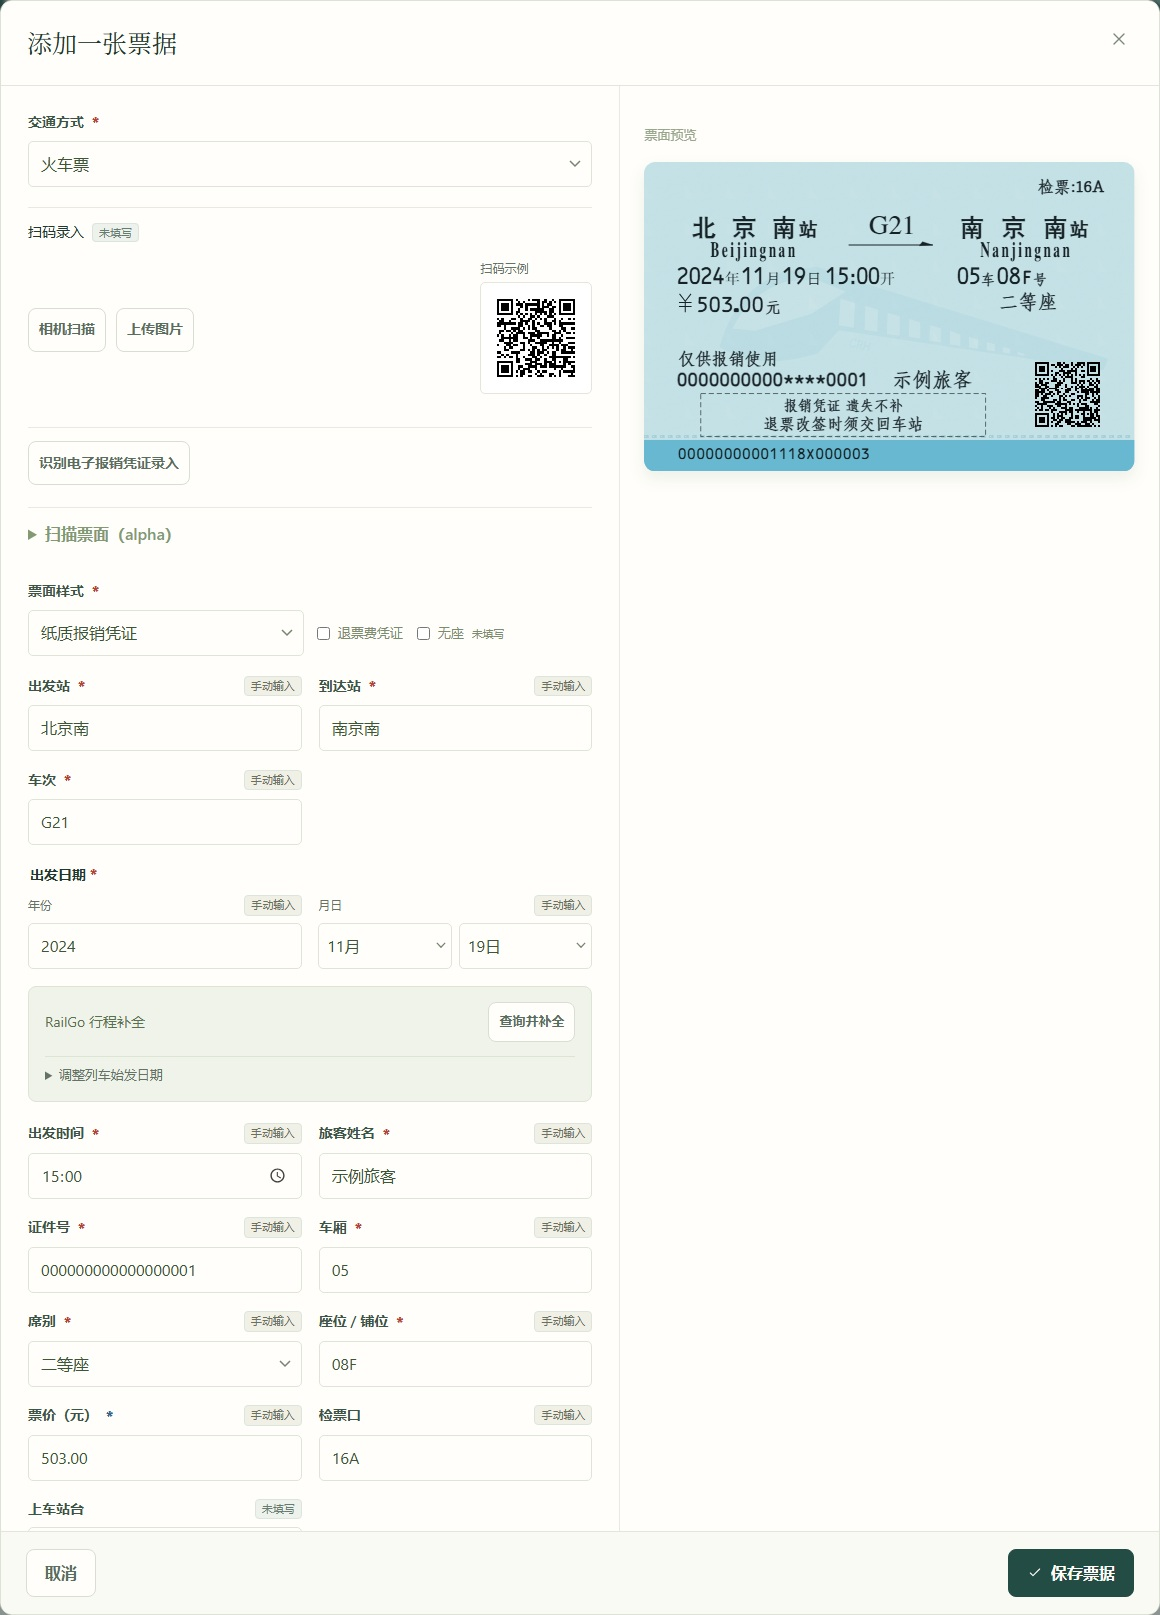
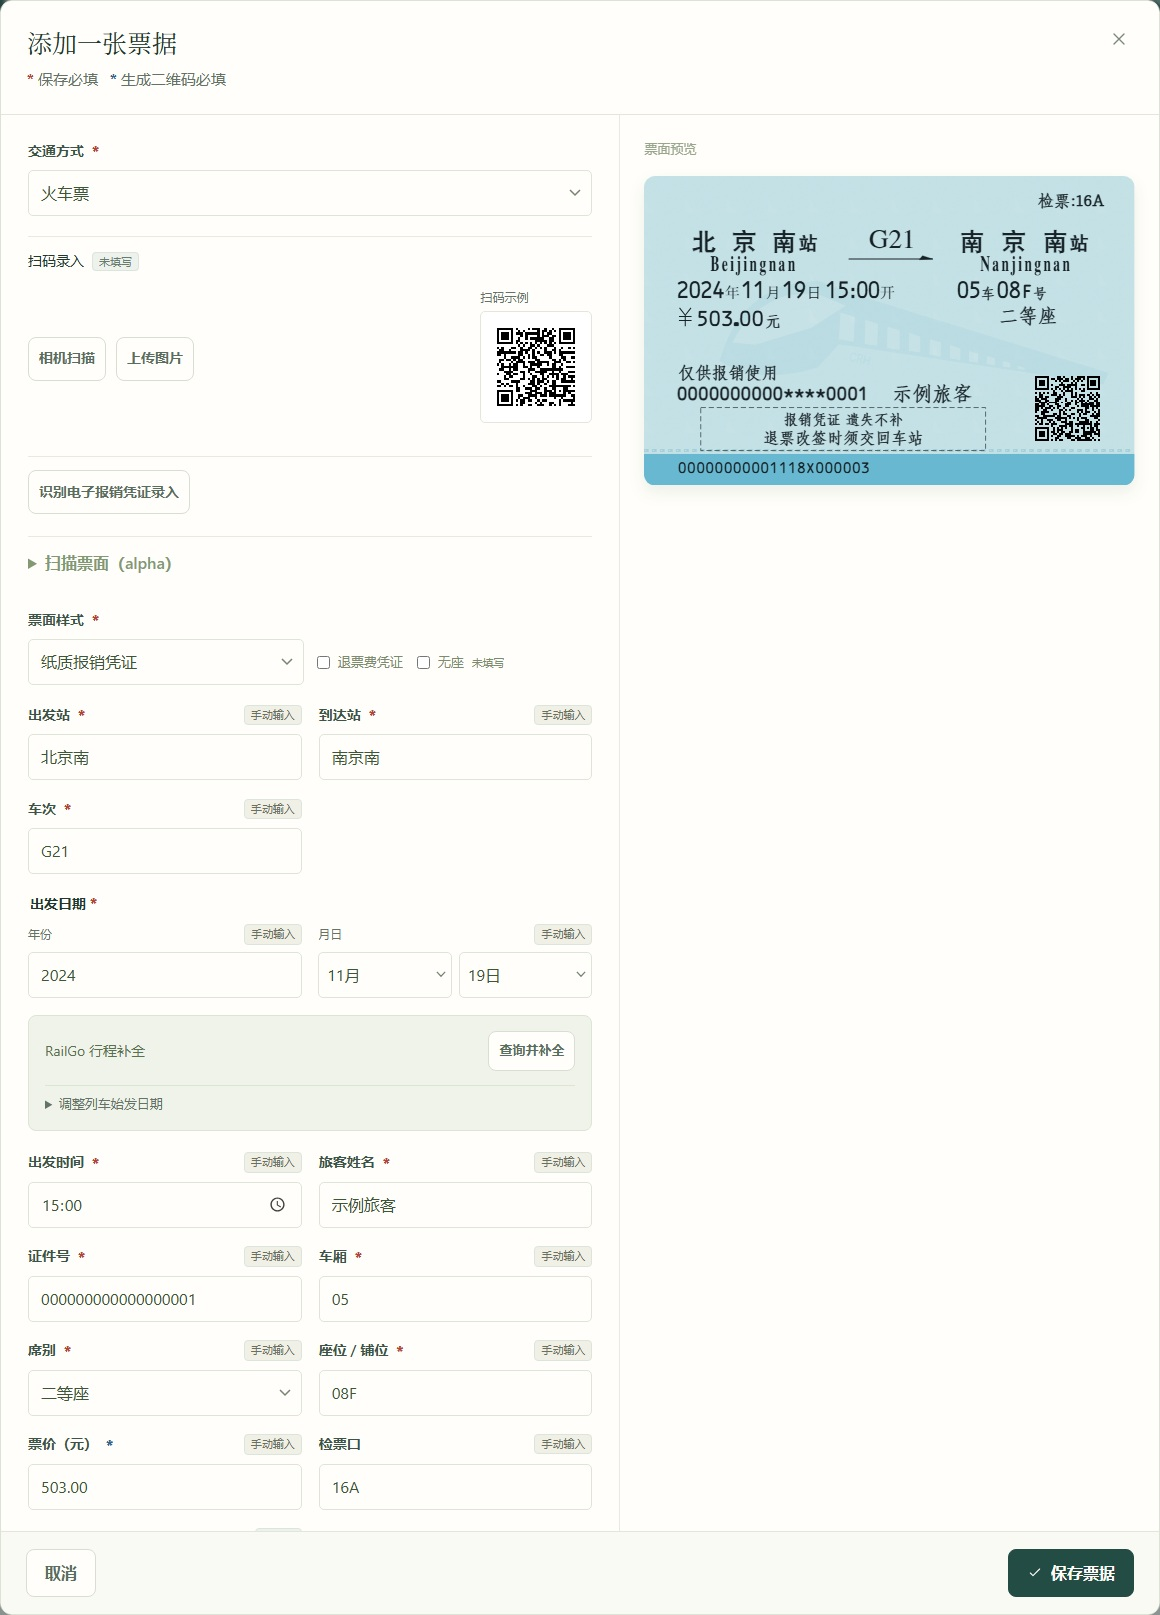
Explain required field colors in ticket editors

diff --git a/src/app.js b/src/app.js
@@ -935,7 +935,8 @@ function editRecord(record = newPersonalRecord(), {
       : ticketCodeEditor(draft, { fromScan:!!localFileURL }) + railReceiptControls() + railPhotoControls() + railTicketOptions(draft));
   const invoiceRows = railInvoiceDetails(draft.railInvoice);
   const invoiceDetails = invoiceRows.length ? `<details class="editor-extra"><summary>电子报销凭证资料</summary><dl class="detail-grid">${invoiceRows.map(([label, value]) => `<div><dt>${e(label)}</dt><dd>${e(value)}</dd></div>`).join('')}</dl></details>` : '';
-  openModal(modalHead(imported ? '核对这张票据' : state.records.some(r => r.id === draft.id) ? '编辑票据' : '添加一张票据') + `<form id="editor-form" novalidate><input type="hidden" name="originCode" value="${e(draft.originCode)}" /><input type="hidden" name="destinationCode" value="${e(draft.destinationCode)}" /><div class="editor-layout ${flight ? 'flight-editor-layout' : ''}"><div class="editor-fields"><div class="form-grid">${ticketEntry}${basics.filter(key => !(draft.railStanding && key === 'seat')).map(key => field(key,draft) + (key === 'departureDate' ? flight ? flightLookupMarkup() : !isRefundReceipt(draft) ? railLookupMarkup(draft) : '' : '')).join('')}${extra.map(key=>field(key,draft)+(key==='railModel' && !isRefundReceipt(draft) ? railTrainsetField(draft) : '')).join('')}</div>${flight ? '<details class="editor-extra boarding-metadata" '+(BOARDING_METADATA_FIELDS.some(key=>draft[key])?'open':'')+'><summary>行李、常旅客与代码共享</summary><div class="form-grid">'+BOARDING_METADATA_FIELDS.map(key=>field(key,draft)).join('')+'</div></details><div data-boarding-journey>'+boardingJourneyMarkup(draft)+'</div><section class="editor-extra actual-flight-times"><h3>实际登机与起降（仅存档）</h3><div class="form-grid">' + ACTUAL_FLIGHT_FIELDS.map(key=>field(key,draft)).join('') + '</div></section>' : invoiceDetails + marksEditor(draft)}${flight ? boardingGeneratorMarkup(draft,{profile:state.settings.profile,settings:generatorSettings}) : ''}<section class="editor-extra"><h3>排版微调</h3><div class="form-grid">${field('offsetX', draft, { type: 'number' })}${field('offsetY', draft, { type: 'number' })}</div></section></div><aside class="editor-visual"><div class="preview-label"><span>票面预览</span></div><div id="editor-preview" class="editor-preview">${ticketSVG(draft)}</div>${localFileURL ? `<details open class="scan-reference"><summary>扫描原图</summary><img src="${e(localFileURL)}" alt="本次录入票据，供校对使用" /></details>` : ''}</aside></div><div class="modal-footer editor-footer"><p class="editor-error" id="editor-error" role="alert" tabindex="-1" hidden></p><button class="button secondary" type="button" data-action="close-modal">取消</button><div class="spacer"></div><button class="button primary" type="submit">${icon('check')}保存票据</button></div></form>`, true);
+  const requiredHint = `<span class="editor-required-hint"><span><b class="required-mark" role="img" aria-label="红色星号">*</b> 保存必填</span><span><b class="required-mark barcode-required-mark" role="img" aria-label="蓝色星号">*</b> 生成${flight ? '条码' : '二维码'}必填</span></span>`;
+  openModal(modalHead(imported ? '核对这张票据' : state.records.some(r => r.id === draft.id) ? '编辑票据' : '添加一张票据', requiredHint) + `<form id="editor-form" novalidate><input type="hidden" name="originCode" value="${e(draft.originCode)}" /><input type="hidden" name="destinationCode" value="${e(draft.destinationCode)}" /><div class="editor-layout ${flight ? 'flight-editor-layout' : ''}"><div class="editor-fields"><div class="form-grid">${ticketEntry}${basics.filter(key => !(draft.railStanding && key === 'seat')).map(key => field(key,draft) + (key === 'departureDate' ? flight ? flightLookupMarkup() : !isRefundReceipt(draft) ? railLookupMarkup(draft) : '' : '')).join('')}${extra.map(key=>field(key,draft)+(key==='railModel' && !isRefundReceipt(draft) ? railTrainsetField(draft) : '')).join('')}</div>${flight ? '<details class="editor-extra boarding-metadata" '+(BOARDING_METADATA_FIELDS.some(key=>draft[key])?'open':'')+'><summary>行李、常旅客与代码共享</summary><div class="form-grid">'+BOARDING_METADATA_FIELDS.map(key=>field(key,draft)).join('')+'</div></details><div data-boarding-journey>'+boardingJourneyMarkup(draft)+'</div><section class="editor-extra actual-flight-times"><h3>实际登机与起降（仅存档）</h3><div class="form-grid">' + ACTUAL_FLIGHT_FIELDS.map(key=>field(key,draft)).join('') + '</div></section>' : invoiceDetails + marksEditor(draft)}${flight ? boardingGeneratorMarkup(draft,{profile:state.settings.profile,settings:generatorSettings}) : ''}<section class="editor-extra"><h3>排版微调</h3><div class="form-grid">${field('offsetX', draft, { type: 'number' })}${field('offsetY', draft, { type: 'number' })}</div></section></div><aside class="editor-visual"><div class="preview-label"><span>票面预览</span></div><div id="editor-preview" class="editor-preview">${ticketSVG(draft)}</div>${localFileURL ? `<details open class="scan-reference"><summary>扫描原图</summary><img src="${e(localFileURL)}" alt="本次录入票据，供校对使用" /></details>` : ''}</aside></div><div class="modal-footer editor-footer"><p class="editor-error" id="editor-error" role="alert" tabindex="-1" hidden></p><button class="button secondary" type="button" data-action="close-modal">取消</button><div class="spacer"></div><button class="button primary" type="submit">${icon('check')}保存票据</button></div></form>`, true);
   // openModal replaces the DOM, but keeps the editor state deliberately.
   const form = document.querySelector('#editor-form');
   bindRailReceipt(form, editor);

diff --git a/tests/manual-entry.test.js b/tests/manual-entry.test.js
@@ -15,10 +15,13 @@ test('manual entry always previews, validates required fields and resolves airpo
   const click=selector=>{const el=document.querySelector(selector);assert.ok(el,selector);el.click();};
   const fill=(name,value)=>{const input=document.querySelector(`#editor-form [name="${name}"]`);assert.ok(input,name);input.value=value;input.dispatchEvent(new window.Event('input',{bubbles:true}));};
   const submit=()=>document.querySelector('#editor-form').dispatchEvent(new window.Event('submit',{bubbles:true,cancelable:true}));
+  const requiredHint=()=>document.querySelector('.modal-heading .editor-required-hint');
   const db=await import('../src/db.js'); await prepareCloud();
   await import('../src/app.js'); await wait(()=>document.querySelector('[data-action=new]:not(:disabled)'));
   assert.equal(document.querySelector('#manual-form'),null);
   click('[data-action="new"]'); await wait(()=>document.querySelector('#editor-preview'));
+  assert.deepEqual([...requiredHint().children].map(note=>note.textContent),['* 保存必填','* 生成二维码必填']);
+  assert.equal(requiredHint().querySelector('.barcode-required-mark').getAttribute('aria-label'),'蓝色星号');
   assert.equal(document.querySelector('.editor-fields details:not(.rail-start-override):not(.rail-lookup-result):not([data-rail-photo-entry])'),null);
   assert.equal(document.querySelector('[data-rail-photo-entry]').open,false);
   assert.equal(document.querySelector('[data-rail-photo-entry] > summary').firstChild.textContent.trim(), '扫描票面（alpha）');
@@ -55,6 +58,7 @@ test('manual entry always previews, validates required fields and resolves airpo
   records=await db.get('records',[]);assert.equal(records.length,1);assert.equal(records[0].price,'100');assert.equal(records[0].seat,'08F');
   click('[data-action="new"]');await wait(()=>document.querySelector('#editor-form'));
   fill('type','flight');fill('passenger','示例旅客');fill('identity','P000001');fill('seat','24K');fill('seatClass','Y');fill('departureTime','12:00');assert.match(document.querySelector('[name="seat"]').closest('.field').textContent.trim(),/^座位号\*/);assert.equal(document.querySelector('[data-field-source="seat"]').textContent,'手动输入');
+  assert.deepEqual([...requiredHint().children].map(note=>note.textContent),['* 保存必填','* 生成条码必填']);
   assert.equal(document.querySelector('[name="originCode"]').type,'hidden');
   assert.equal(document.querySelector('[name="departureZone"], [name="arrivalZone"]'),null);
   const origin=document.querySelector('#editor-form [name="origin"]');origin.focus();fill('origin','ｐｅｋ');

diff --git a/src/styles.css b/src/styles.css
@@ -575,6 +575,8 @@ select:not([multiple]){-webkit-appearance:none;appearance:none;min-width:0;max-w
 .editor-fields>.boarding-generator{margin-top:22px;border-top:1px solid var(--line);padding-top:18px}.boarding-generator fieldset{border:0;margin:0;padding:0;min-width:0}.boarding-generator fieldset:disabled{opacity:.55}.form-grid>[data-code-editor]{grid-column:1/-1;min-width:0;margin-bottom:20px}
 @media(max-width:680px){.editor-layout.flight-editor-layout{flex-direction:column}}
 .required-mark.barcode-required-mark{color:#32658d}
+.editor-required-hint{display:flex;flex-wrap:wrap;gap:2px 12px;color:var(--muted)}
+.editor-required-hint .required-mark{margin-left:0}
 
 .field .field-source,.editor-extra h3 .field-source{margin-left:auto;font-size:11px;font-weight:400;line-height:1.5;white-space:nowrap;color:#687b70;background:#edf2ec;border:1px solid #dce5db;border-radius:4px;padding:1px 6px}.editor-extra h3 .field-source{margin-left:8px;vertical-align:middle}.field .field-source[data-source-kind="manual"]{color:#6c715d;background:#f1f0e7}
 .editor-fields .field{justify-content:space-between}.editor-fields .field>span{column-gap:4px}
